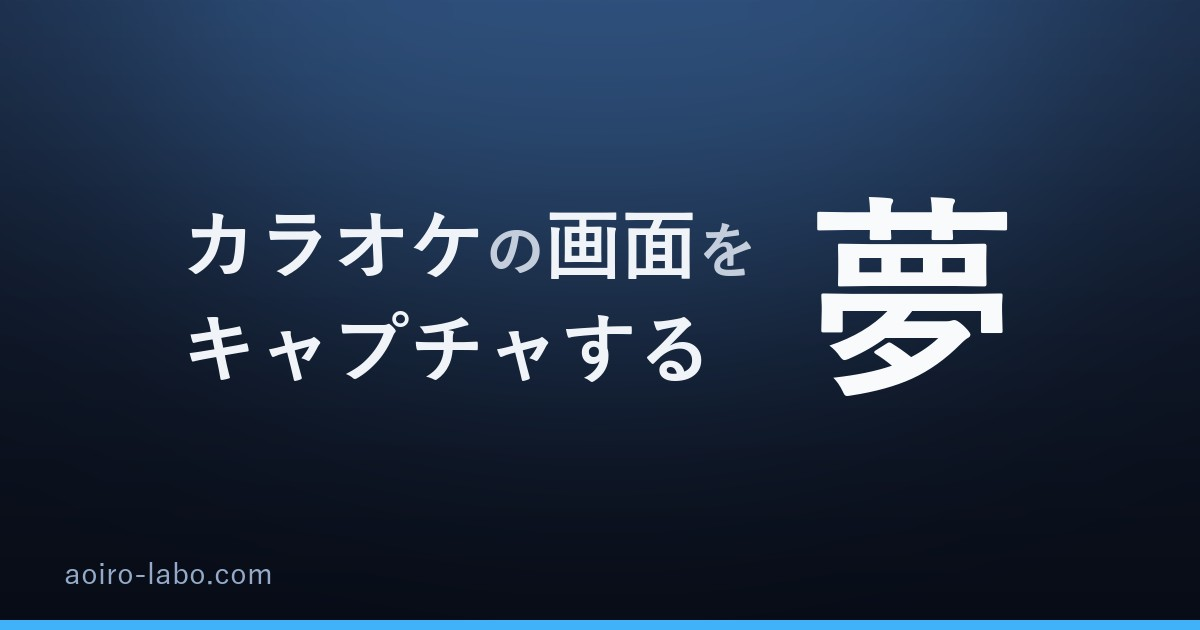
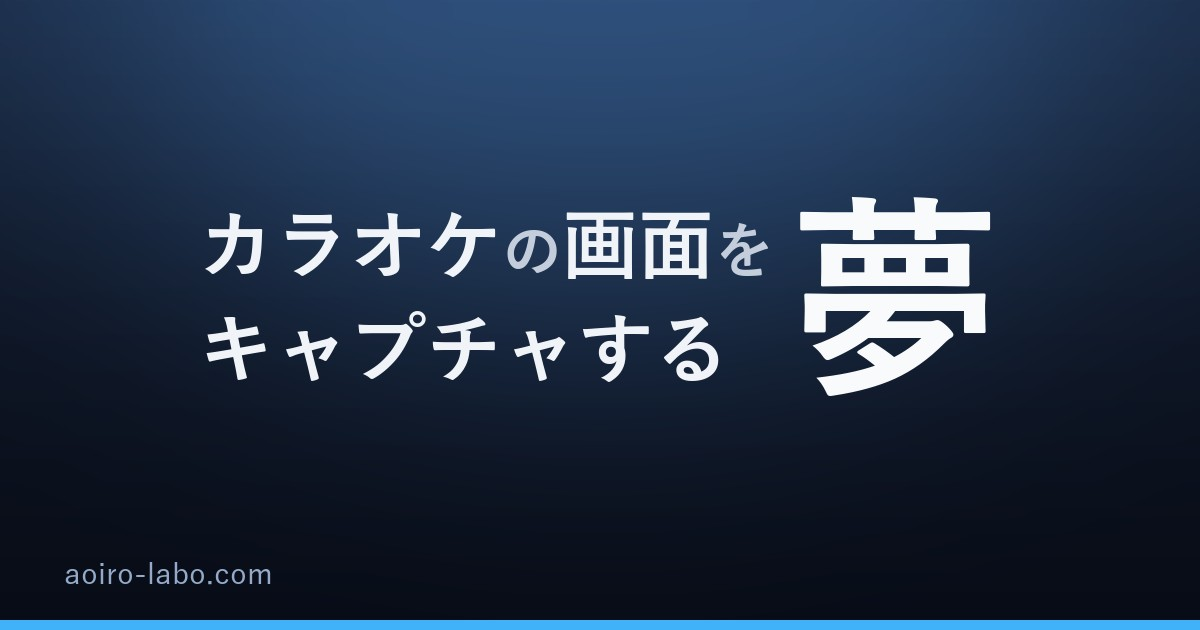
カバー：ゾーン配置の左右間隔を最小にする

Changed region(s): [[0.1542, 0.3317, 0.6475, 0.4524], [0.6475, 0.3016, 0.8633, 0.6333], [0.1542, 0.4825, 0.6167, 0.6032]]

diff --git a/tools/generate_cover.py b/tools/generate_cover.py
@@ -492,7 +492,7 @@ def make(path, out, hero_override=None, emphasis_override=None):
             for ln in lines:
                 line_ws.append(sum(widths[_idx:_idx+len(ln)])); _idx+=len(ln)
             maxlw=max(line_ws)
-            gx = max(MARGIN, (W - (maxlw + 48 + kw_w))//2)
+            gx = max(MARGIN, (W - (maxlw + 14 + kw_w))//2)
             total = cat_h + block_h + (30 if tags else 0) + chips_h
             y = (H - total)//2 - 14
             if cat:
@@ -501,7 +501,7 @@ def make(path, out, hero_override=None, emphasis_override=None):
                 d.text((gx, y), bracket, font=ImageFont.truetype(BOLD, 30), fill=SUBC); y += bracket_h
             title_top = y
             draw_lines(d, items, lines, widths, gx, y, size, acc, heights)
-            d.text((gx + maxlw + 48, title_top - kw_bb[1]), hero, font=kw_font, fill=WHITE)
+            d.text((gx + maxlw + 14, title_top - kw_bb[1]), hero, font=kw_font, fill=WHITE)
             y += block_h
             finish(d, img, cat, tags, acc, y, out, x0=gx)
             print('made (zone)', out, '| hero:', hero)
